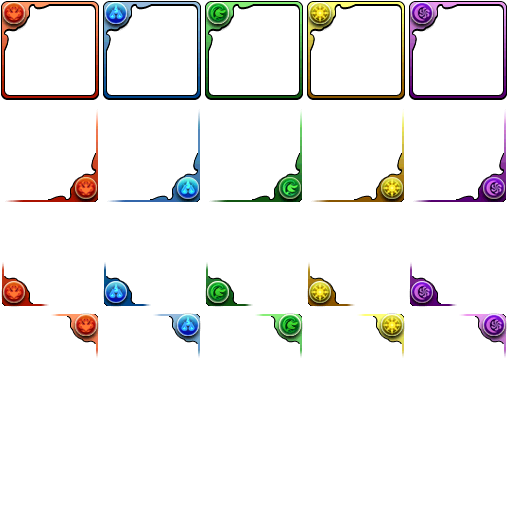
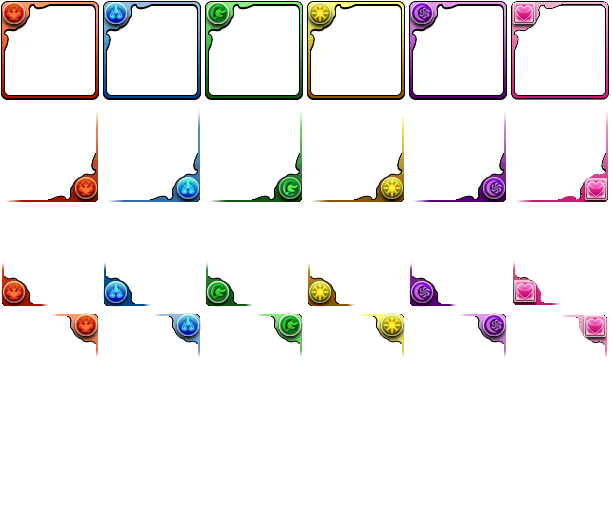
恶搞功能加入心属性，修改为可以取消恶搞功能

diff --git a/solo.html b/solo.html
@@ -604,6 +604,7 @@ const teamsCount = 1;
 						<li><input type="checkbox" name="attr-1" value="2" id="search-attr-1-2" /><label for="search-attr-1-2"><span class="attr" data-attr-icon="2"></span></label></li><!--木-->
 						<li><input type="checkbox" name="attr-1" value="3" id="search-attr-1-3" /><label for="search-attr-1-3"><span class="attr" data-attr-icon="3"></span></label></li><!--光-->
 						<li><input type="checkbox" name="attr-1" value="4" id="search-attr-1-4" /><label for="search-attr-1-4"><span class="attr" data-attr-icon="4"></span></label></li><!--暗-->
+						<li class="display-none"><input type="checkbox" name="attr-1" value="5" id="search-attr-1-5" /><label for="search-attr-1-5"><span class="attr" data-attr-icon="5"></span></label></li><!--心-->
 						<li><input type="checkbox" name="attr-1" value="6" id="search-attr-1-6" /><label for="search-attr-1-6"><span class="attr" data-attr-icon="6"></span></label></li><!--无主属性-->
 					</ul>
 					<ul class="attr-list horizontally-radio-list">
@@ -612,6 +613,7 @@ const teamsCount = 1;
 						<li><input type="checkbox" name="attr-2" value="2" id="search-attr-2-2" /><label for="search-attr-2-2"><span class="attr" data-attr-icon="2"></span></label></li><!--木-->
 						<li><input type="checkbox" name="attr-2" value="3" id="search-attr-2-3" /><label for="search-attr-2-3"><span class="attr" data-attr-icon="3"></span></label></li><!--光-->
 						<li><input type="checkbox" name="attr-2" value="4" id="search-attr-2-4" /><label for="search-attr-2-4"><span class="attr" data-attr-icon="4"></span></label></li><!--暗-->
+						<li class="display-none"><input type="checkbox" name="attr-2" value="5" id="search-attr-2-5" /><label for="search-attr-2-5"><span class="attr" data-attr-icon="5"></span></label></li><!--心-->
 						<li><input type="checkbox" name="attr-2" value="6" id="search-attr-2-6" /><label for="search-attr-2-6"><span class="attr" data-attr-icon="6"></span></label></li><!--无副属性-->
 					</ul>
 					<ul class="attr-list horizontally-radio-list">
@@ -620,6 +622,7 @@ const teamsCount = 1;
 						<li><input type="checkbox" name="attr-3" value="2" id="search-attr-3-2" /><label for="search-attr-3-2"><span class="attr" data-attr-icon="2"></span></label></li><!--木-->
 						<li><input type="checkbox" name="attr-3" value="3" id="search-attr-3-3" /><label for="search-attr-3-3"><span class="attr" data-attr-icon="3"></span></label></li><!--光-->
 						<li><input type="checkbox" name="attr-3" value="4" id="search-attr-3-4" /><label for="search-attr-3-4"><span class="attr" data-attr-icon="4"></span></label></li><!--暗-->
+						<li class="display-none"><input type="checkbox" name="attr-3" value="5" id="search-attr-3-5" /><label for="search-attr-3-5"><span class="attr" data-attr-icon="5"></span></label></li><!--心-->
 						<li><input type="checkbox" name="attr-3" value="6" id="search-attr-3-6" /><label for="search-attr-3-6"><span class="attr" data-attr-icon="6"></span></label></li><!--无副属性-->
 					</ul>
 					<ul class="attr-list horizontally-radio-list display-none">
@@ -628,6 +631,7 @@ const teamsCount = 1;
 						<li><input type="checkbox" name="attr-4" value="2" id="search-attr-4-2" /><label for="search-attr-4-2"><span class="attr" data-attr-icon="2"></span></label></li><!--木-->
 						<li><input type="checkbox" name="attr-4" value="3" id="search-attr-4-3" /><label for="search-attr-4-3"><span class="attr" data-attr-icon="3"></span></label></li><!--光-->
 						<li><input type="checkbox" name="attr-4" value="4" id="search-attr-4-4" /><label for="search-attr-4-4"><span class="attr" data-attr-icon="4"></span></label></li><!--暗-->
+						<li class="display-none"><input type="checkbox" name="attr-4" value="5" id="search-attr-4-5" /><label for="search-attr-4-5"><span class="attr" data-attr-icon="5"></span></label></li><!--心-->
 						<li><input type="checkbox" name="attr-4" value="6" id="search-attr-4-6" /><label for="search-attr-4-6"><span class="attr" data-attr-icon="6"></span></label></li><!--无副属性-->
 					</ul>
 				</div>
@@ -1216,7 +1220,7 @@ const teamsCount = 1;
 		</div>
 
 		<template id="template-card-a">
-			<a class="monster" target="_blank" data-cardid="" data-cards-pic-idx="" data-cards-pic-x="" data-cards-pic-y="" title=""><div class="attrs"><div class="attr"></div><div class="attr"></div><div class="attr"></div><div class="attr"></div><div class="attr"></div></div><div class="plus"><div class="hp"></div><div class="atk"></div><div class="rcv"></div></div><div class="id"></div><div class="awoken-count-num"></div><div class="super-awoken display-none"><div class="awoken-icon"></div></div><div class="level"></div><div class="rarity"></div><div class="count-in-box"><span class="same-id"></span><span class="evo-tree"></span></div></a>
+			<a class="monster" target="_blank" data-cardid="" data-cards-pic-idx="" data-cards-pic-x="" data-cards-pic-y="" title=""><div class="attrs"><div class="attr"></div><div class="attr"></div><div class="attr"></div><div class="attr"></div></div><div class="plus"><div class="hp"></div><div class="atk"></div><div class="rcv"></div></div><div class="id"></div><div class="awoken-count-num"></div><div class="super-awoken display-none"><div class="awoken-icon"></div></div><div class="level"></div><div class="rarity"></div><div class="count-in-box"><span class="same-id"></span><span class="evo-tree"></span></div></a>
 		</template>
 	</div>
 	<svg id="interchange-line" xmlns="http://www.w3.org/2000/svg" xmlns:xlink="http://www.w3.org/1999/xlink" version="1.2" height="100%" width="100%" style="display:none;">

diff --git a/triple.html b/triple.html
@@ -1548,6 +1548,7 @@ const teamsCount = 3;
 						<li><input type="checkbox" name="attr-1" value="2" id="search-attr-1-2" /><label for="search-attr-1-2"><span class="attr" data-attr-icon="2"></span></label></li><!--木-->
 						<li><input type="checkbox" name="attr-1" value="3" id="search-attr-1-3" /><label for="search-attr-1-3"><span class="attr" data-attr-icon="3"></span></label></li><!--光-->
 						<li><input type="checkbox" name="attr-1" value="4" id="search-attr-1-4" /><label for="search-attr-1-4"><span class="attr" data-attr-icon="4"></span></label></li><!--暗-->
+						<li class="display-none"><input type="checkbox" name="attr-1" value="5" id="search-attr-1-5" /><label for="search-attr-1-5"><span class="attr" data-attr-icon="5"></span></label></li><!--心-->
 						<li><input type="checkbox" name="attr-1" value="6" id="search-attr-1-6" /><label for="search-attr-1-6"><span class="attr" data-attr-icon="6"></span></label></li><!--无主属性-->
 					</ul>
 					<ul class="attr-list horizontally-radio-list">
@@ -1556,6 +1557,7 @@ const teamsCount = 3;
 						<li><input type="checkbox" name="attr-2" value="2" id="search-attr-2-2" /><label for="search-attr-2-2"><span class="attr" data-attr-icon="2"></span></label></li><!--木-->
 						<li><input type="checkbox" name="attr-2" value="3" id="search-attr-2-3" /><label for="search-attr-2-3"><span class="attr" data-attr-icon="3"></span></label></li><!--光-->
 						<li><input type="checkbox" name="attr-2" value="4" id="search-attr-2-4" /><label for="search-attr-2-4"><span class="attr" data-attr-icon="4"></span></label></li><!--暗-->
+						<li class="display-none"><input type="checkbox" name="attr-2" value="5" id="search-attr-2-5" /><label for="search-attr-2-5"><span class="attr" data-attr-icon="5"></span></label></li><!--心-->
 						<li><input type="checkbox" name="attr-2" value="6" id="search-attr-2-6" /><label for="search-attr-2-6"><span class="attr" data-attr-icon="6"></span></label></li><!--无副属性-->
 					</ul>
 					<ul class="attr-list horizontally-radio-list">
@@ -1564,6 +1566,7 @@ const teamsCount = 3;
 						<li><input type="checkbox" name="attr-3" value="2" id="search-attr-3-2" /><label for="search-attr-3-2"><span class="attr" data-attr-icon="2"></span></label></li><!--木-->
 						<li><input type="checkbox" name="attr-3" value="3" id="search-attr-3-3" /><label for="search-attr-3-3"><span class="attr" data-attr-icon="3"></span></label></li><!--光-->
 						<li><input type="checkbox" name="attr-3" value="4" id="search-attr-3-4" /><label for="search-attr-3-4"><span class="attr" data-attr-icon="4"></span></label></li><!--暗-->
+						<li class="display-none"><input type="checkbox" name="attr-3" value="5" id="search-attr-3-5" /><label for="search-attr-3-5"><span class="attr" data-attr-icon="5"></span></label></li><!--心-->
 						<li><input type="checkbox" name="attr-3" value="6" id="search-attr-3-6" /><label for="search-attr-3-6"><span class="attr" data-attr-icon="6"></span></label></li><!--无副属性-->
 					</ul>
 					<ul class="attr-list horizontally-radio-list display-none">
@@ -1572,6 +1575,7 @@ const teamsCount = 3;
 						<li><input type="checkbox" name="attr-4" value="2" id="search-attr-4-2" /><label for="search-attr-4-2"><span class="attr" data-attr-icon="2"></span></label></li><!--木-->
 						<li><input type="checkbox" name="attr-4" value="3" id="search-attr-4-3" /><label for="search-attr-4-3"><span class="attr" data-attr-icon="3"></span></label></li><!--光-->
 						<li><input type="checkbox" name="attr-4" value="4" id="search-attr-4-4" /><label for="search-attr-4-4"><span class="attr" data-attr-icon="4"></span></label></li><!--暗-->
+						<li class="display-none"><input type="checkbox" name="attr-4" value="5" id="search-attr-4-5" /><label for="search-attr-4-5"><span class="attr" data-attr-icon="5"></span></label></li><!--心-->
 						<li><input type="checkbox" name="attr-4" value="6" id="search-attr-4-6" /><label for="search-attr-4-6"><span class="attr" data-attr-icon="6"></span></label></li><!--无副属性-->
 					</ul>
 				</div>

diff --git a/multi.html b/multi.html
@@ -866,6 +866,7 @@ const teamsCount = 2;
 						<li><input type="checkbox" name="attr-1" value="2" id="search-attr-1-2" /><label for="search-attr-1-2"><span class="attr" data-attr-icon="2"></span></label></li><!--木-->
 						<li><input type="checkbox" name="attr-1" value="3" id="search-attr-1-3" /><label for="search-attr-1-3"><span class="attr" data-attr-icon="3"></span></label></li><!--光-->
 						<li><input type="checkbox" name="attr-1" value="4" id="search-attr-1-4" /><label for="search-attr-1-4"><span class="attr" data-attr-icon="4"></span></label></li><!--暗-->
+						<li class="display-none"><input type="checkbox" name="attr-1" value="5" id="search-attr-1-5" /><label for="search-attr-1-5"><span class="attr" data-attr-icon="5"></span></label></li><!--心-->
 						<li><input type="checkbox" name="attr-1" value="6" id="search-attr-1-6" /><label for="search-attr-1-6"><span class="attr" data-attr-icon="6"></span></label></li><!--无主属性-->
 					</ul>
 					<ul class="attr-list horizontally-radio-list">
@@ -874,6 +875,7 @@ const teamsCount = 2;
 						<li><input type="checkbox" name="attr-2" value="2" id="search-attr-2-2" /><label for="search-attr-2-2"><span class="attr" data-attr-icon="2"></span></label></li><!--木-->
 						<li><input type="checkbox" name="attr-2" value="3" id="search-attr-2-3" /><label for="search-attr-2-3"><span class="attr" data-attr-icon="3"></span></label></li><!--光-->
 						<li><input type="checkbox" name="attr-2" value="4" id="search-attr-2-4" /><label for="search-attr-2-4"><span class="attr" data-attr-icon="4"></span></label></li><!--暗-->
+						<li class="display-none"><input type="checkbox" name="attr-2" value="5" id="search-attr-2-5" /><label for="search-attr-2-5"><span class="attr" data-attr-icon="5"></span></label></li><!--心-->
 						<li><input type="checkbox" name="attr-2" value="6" id="search-attr-2-6" /><label for="search-attr-2-6"><span class="attr" data-attr-icon="6"></span></label></li><!--无副属性-->
 					</ul>
 					<ul class="attr-list horizontally-radio-list">
@@ -882,6 +884,7 @@ const teamsCount = 2;
 						<li><input type="checkbox" name="attr-3" value="2" id="search-attr-3-2" /><label for="search-attr-3-2"><span class="attr" data-attr-icon="2"></span></label></li><!--木-->
 						<li><input type="checkbox" name="attr-3" value="3" id="search-attr-3-3" /><label for="search-attr-3-3"><span class="attr" data-attr-icon="3"></span></label></li><!--光-->
 						<li><input type="checkbox" name="attr-3" value="4" id="search-attr-3-4" /><label for="search-attr-3-4"><span class="attr" data-attr-icon="4"></span></label></li><!--暗-->
+						<li class="display-none"><input type="checkbox" name="attr-3" value="5" id="search-attr-3-5" /><label for="search-attr-3-5"><span class="attr" data-attr-icon="5"></span></label></li><!--心-->
 						<li><input type="checkbox" name="attr-3" value="6" id="search-attr-3-6" /><label for="search-attr-3-6"><span class="attr" data-attr-icon="6"></span></label></li><!--无副属性-->
 					</ul>
 					<ul class="attr-list horizontally-radio-list display-none">
@@ -890,6 +893,7 @@ const teamsCount = 2;
 						<li><input type="checkbox" name="attr-4" value="2" id="search-attr-4-2" /><label for="search-attr-4-2"><span class="attr" data-attr-icon="2"></span></label></li><!--木-->
 						<li><input type="checkbox" name="attr-4" value="3" id="search-attr-4-3" /><label for="search-attr-4-3"><span class="attr" data-attr-icon="3"></span></label></li><!--光-->
 						<li><input type="checkbox" name="attr-4" value="4" id="search-attr-4-4" /><label for="search-attr-4-4"><span class="attr" data-attr-icon="4"></span></label></li><!--暗-->
+						<li class="display-none"><input type="checkbox" name="attr-4" value="5" id="search-attr-4-5" /><label for="search-attr-4-5"><span class="attr" data-attr-icon="5"></span></label></li><!--心-->
 						<li><input type="checkbox" name="attr-4" value="6" id="search-attr-4-6" /><label for="search-attr-4-6"><span class="attr" data-attr-icon="6"></span></label></li><!--无副属性-->
 					</ul>
 				</div>

diff --git a/service-worker.js b/service-worker.js
@@ -30223,7 +30223,7 @@ const cachesMap = new Map([
 	],
 	[
 		"multi.html",
-		"7f22a32b21a75c67f3a87c00b6b10d29"
+		"102b91cfe7df45e3cfd55c19620214c9"
 	],
 	[
 		"script-custom_elements.js",
@@ -30231,7 +30231,7 @@ const cachesMap = new Map([
 	],
 	[
 		"script-json_data.js",
-		"37f21417e9c5c4be0685546aa6f280e0"
+		"e6ed32d5988d693a323f2b3447d3debd"
 	],
 	[
 		"script-skill-parser.js",
@@ -30243,19 +30243,19 @@ const cachesMap = new Map([
 	],
 	[
 		"script.js",
-		"c5a1df2c76abb1d5c99468c92c68e200"
+		"9ec1b0af5a159d8455fb60a9aea0fd31"
 	],
 	[
 		"solo.html",
-		"402560775ce1f80ec5b54375d916b53a"
+		"aa016cec6738e5ff72f9e0c8e1aaa507"
 	],
 	[
 		"style-monsterimages.css",
-		"94d948c4a0d72636d243e05a9bdacdfa"
+		"01af9fbac81c5c7fa2eac76354bc89a1"
 	],
 	[
 		"style.css",
-		"555858755143ef7c727faea0c611834e"
+		"03a65edfb1df79c90af209931a321469"
 	],
 	[
 		"temp.js",
@@ -30263,7 +30263,7 @@ const cachesMap = new Map([
 	],
 	[
 		"triple.html",
-		"ff23d534ebe824b2926dd5f1a46628e5"
+		"49c87f094ad7dc38a9d31ec61f1a653f"
 	],
 	[
 		"languages/en.css",
@@ -30295,7 +30295,7 @@ const cachesMap = new Map([
 	],
 	[
 		"languages/zh-hans.css",
-		"49081d87502177cf042475908a7e0141"
+		"2983021b08b7537b48fc4d1aeb556321"
 	],
 	[
 		"languages/zh-hans.js",
@@ -30303,7 +30303,7 @@ const cachesMap = new Map([
 	],
 	[
 		"languages/zh-hant.css",
-		"7ef1f9d1e3cce4af1eef45fed616a693"
+		"12e90b96170f015450c40e49b3921098"
 	],
 	[
 		"languages/zh-hant.js",
@@ -30342,11 +30342,11 @@ const cachesMap = new Map([
 		"6138155bddb716d91ba0df6b17a8e876"
 	],
 	[
-		"images/CARDFRAME2.PNG",
-		"c28d99259c0c7db5dcc2824286b93ba6"
+		"images/CARDFRAME2.png",
+		"13006618d031ec6f749b1cc1f429d42e"
 	],
 	[
-		"images/CARDFRAMEW.PNG",
+		"images/CARDFRAMEW.png",
 		"54d696bcecec70de291995be2b0acb90"
 	],
 	[

diff --git a/script.js b/script.js
@@ -4496,11 +4496,22 @@ function initialize() {
 		btnCustomAvatarSave.classList.remove(className_displayNone);
 		const attrs4 = s_AttrForm.querySelector(".attr-selecter-list .attr-list.display-none");
 		if (attrs4) {
-			Cards.forEach(card=>card.attrs[3] = Math.randomInteger(0,4));
+
 			attrs4.classList.remove(className_displayNone);
+			[...s_AttrForm.querySelectorAll(".attr-selecter-list .attr-list")].forEach(list=>list.querySelector("li.display-none").classList.remove(className_displayNone));
 		}
 		editBox.changeMonId(monstersID.value);
-		alert("恶搞功能：所有角色全部随机设定了第四属性，请勿当真。你可以上传你的自定义图片以制作卡片头像。\n\nSpoof function: All Cards have a random 4th attribute, don't take it seriously. You can upload your custom image to make a card avatar.");
+		const spoof = confirm("你可以上传你的自定义图片以制作卡片头像。\nYou can upload your custom image to make a card avatar.\n\n是否启用恶搞功能？\n所有角色全部随机设定四种属性。\nEnable Spoof function ?\nAll Cards set 4 random attrs. ");
+		if (spoof) {
+			Cards.forEach(card=>{
+				if (!card.enabled) return;
+				for (let i = 0; i < 4; i++) {
+					const maxAttr = (i === 1 && card.attrs[0] === 6) ? 5 : 6; //如果第一属性是无属性，第二属性就不可以是无属性
+					card.attrs[i] = Math.randomInteger(0, maxAttr);
+					if (i >= 1 && card.attrs[i] === 6) break; //如果第2属性开始出现了无属性，就不需要再继续了
+				}
+			});
+		}
 	}
 	avatarSelect.addEventListener("click", set_4th_attrs, {once: true});
 

diff --git a/style.css b/style.css
@@ -510,7 +510,7 @@ ul{
 	width: 100%;
 	height: 100%;
 	background-repeat: no-repeat;
-	background-image: url(images/CARDFRAME2.PNG);
+	background-image: url(images/CARDFRAME2.png);
 	background-position: 100px 100px; /*默认都不显示*/
 }
 /*改变属性的，生成一个淡绿色圈*/
@@ -1776,7 +1776,7 @@ label[for="search-string"]::before {
 #search-attr {
 	display: grid;
 	grid-auto-rows: min-content;
-	grid-template-columns: 100px 340px 30px auto;
+	grid-template-columns: 100px min-content 30px auto;
 	grid-gap: 3px;
 }
 #search-attr .options {

diff --git a/style-monsterimages.css b/style-monsterimages.css
@@ -30,8 +30,11 @@
 .monster .attrs .attr[data-attr='4'] {
 	background-position-x: calc(-102px * 4); /*暗*/
 }
+.monster .attrs .attr[data-attr='5'] {
+	background-position-x: calc(-102px * 5); /*心*/
+}
 .monster .attrs .attr:nth-of-type(1)[data-attr='6'] { /*无主属性*/
-	background-image: url(images/CARDFRAMEW.PNG);
+	background-image: url(images/CARDFRAMEW.png);
 	background-position: 0 0;
 }
 .monster .attrs .attr:nth-of-type(1)[data-attr='any'] {
